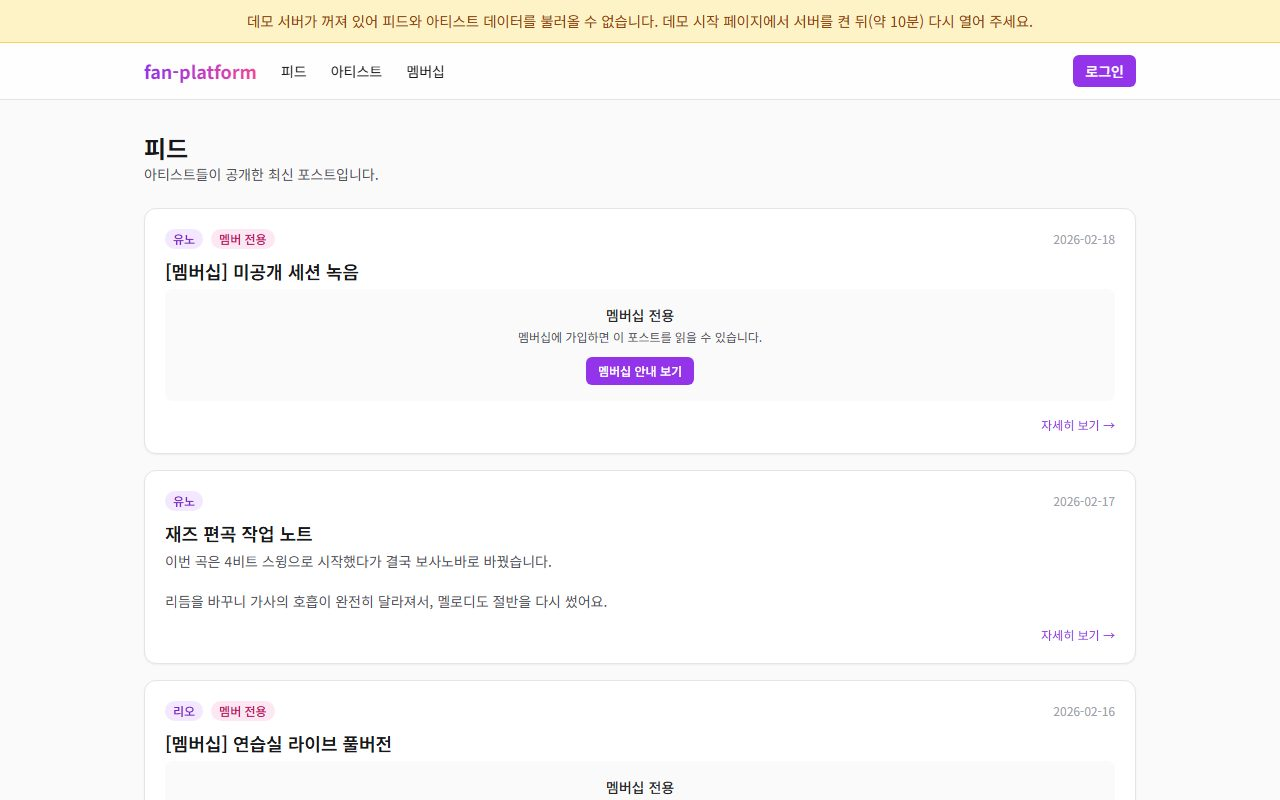
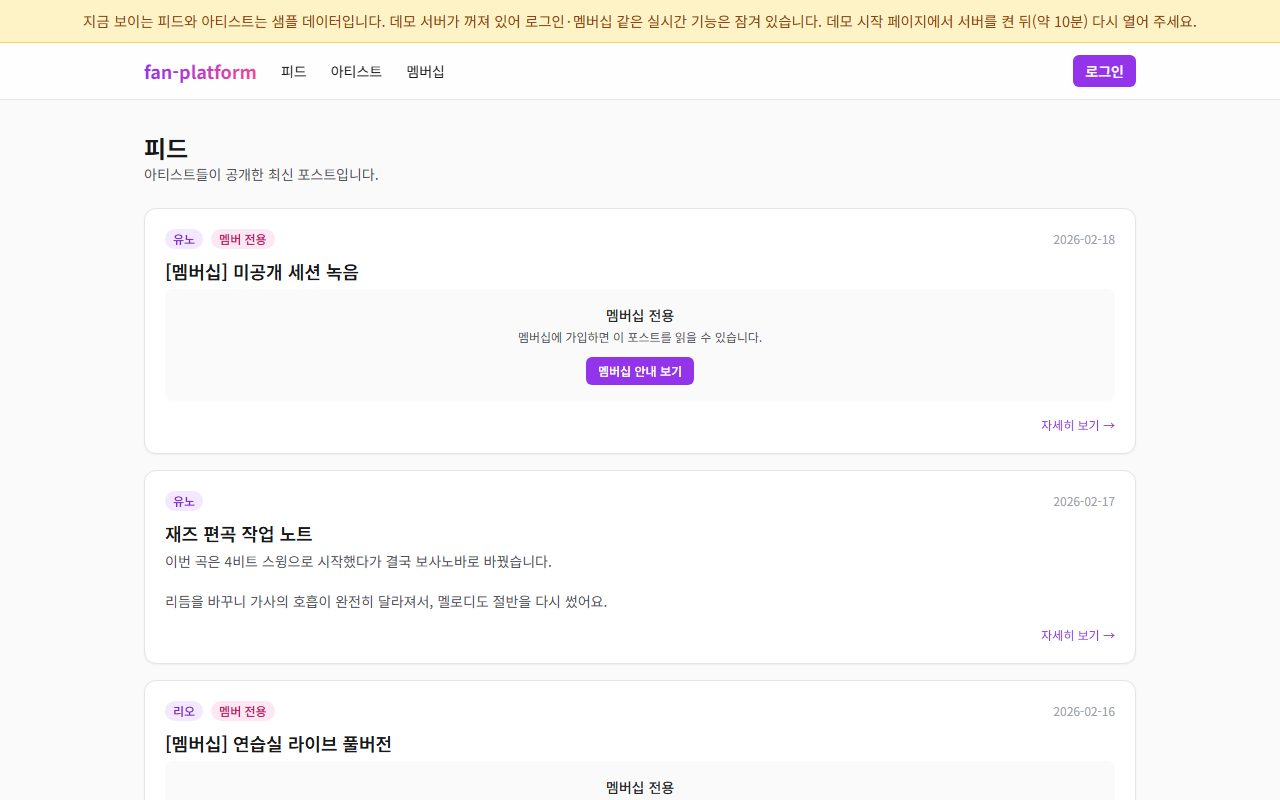
feat(demo): TASK-MONO-642 AC-3 — 새 문구가 배포된 뒤 캡처를 다시 찍는다 (in-progress → review)
문구·시험은 #3702 로 이미 머지됐다. 캡처는 라이브에서 찍으므로 그 배포 뒤에만
가능했고, 그래서 이 티켓이 in-progress 로 남아 있었다.

배포 확인
  store/fan 두 표면의 raw HTML 에서 새 문구를 폴링해 배포를 확인했고
  (🔵 그 전에 옛 문구가 raw HTML 에 있는지 먼저 재서 이 폴링이 유효한지 확인했다 —
   클라 렌더면 SSR HTML 로 판정이 안 된다),
  브라우저 렌더로 배너 전문을 다시 읽었다.

캡처 재생성
  node infra/demo/aws/site/capture-shots.mjs → 8/8, manifest 기록, 전부 200
  🔵 TASK-MONO-643 이 고친 스크립트를 실제로 썼다. 이 worktree 에 설치본이 없어
     --from 을 줬고, 스크립트가 해석된 경로를 출력했다.

🔵 다섯 장만 바뀌고 console 세 장은 바이트 동일하다
  바뀜   store-1-home · store-2-products · fan-1-feed · fan-2-artists · fan-3-membership
  안 바뀜 console-1-overview · console-2-ecommerce · console-3-wms
  🔴 이것이 범위가 맞았다는 증거다 — 콘솔을 안 건드렸으니 콘솔 캡처가 안 바뀌어야
     한다. 바뀌었다면 의도하지 않은 변경이 섞인 것이다.

눈으로 봤다
  store-2-products  새 배너 + 상품 8종이 그대로
  fan-2-artists     새 배너 + 아티스트 6명이 사진과 함께

용량 608 → 616 KB (+1.3%). 새 문구가 한 줄 길어진 만큼이고 형식·품질(JPEG q=82)은
TASK-MONO-639 가 정한 그대로다.

게이트
  전체 wrapper 정적 전량  rc=0 · 86 ok · FAIL 0 · 「정적 검증 PASS」 종료
  (z37) 통과 — 참조↔파일 양방향 · manifest 일치 · capture-shots.mjs 목록과 안 갈라짐

🔴 미측정: 새 캡처가 hubwang.com 카드에 실제로 뜨는지. 머지 → Vercel 배포 뒤에만
   볼 수 있다. TASK-MONO-639 때와 같은 축이고 그때는 8/8 이 md5 동일로 확인됐다.

Changed region(s): [[0.0625, 0.0, 0.9375, 0.0312]]

diff --git a/tasks/review/TASK-MONO-642-the-banner-says-it-cannot-load-what-it-is-drawing.md b/tasks/review/TASK-MONO-642-the-banner-says-it-cannot-load-what-it-is-drawing.md
@@ -8,7 +8,7 @@ TASK-MONO-642
 
 # Status
 
-in-progress
+review
 
 # Owner
 
@@ -101,43 +101,43 @@ projects/platform-console/apps/console-web/src/widgets/demo-notice/DemoBackendNo
 
 ## AC-0 — 착수 전 재측정
 
-- [ ] 세 앱의 배너 문구를 **다시 읽고** 위 표를 갱신한다. 그 사이 누가 고쳤으면 재현 조건이
+- [x] 세 앱의 배너 문구를 **다시 읽고** 위 표를 갱신한다. 그 사이 누가 고쳤으면 재현 조건이
       사라진다 — 그때는 «문구가 무엇인가» 가 아니라 **«화면이 그리는 것과 배너가 말하는
       것이 맞는가»** 로 판정하라.
-- [ ] 🔴 라이브에서 **배너와 데이터가 함께 있는지** 확인한다(배너가 뜨는데 데이터도 보인다는
+- [x] 🔴 라이브에서 **배너와 데이터가 함께 있는지** 확인한다(배너가 뜨는데 데이터도 보인다는
       것이 이 티켓의 재현 조건이다). 데모가 켜져 있으면 배너가 아예 안 뜨므로 재현이 안 된다.
-- [ ] 🔴 `TASK-MONO-643` 이 머지됐는지 확인한다. 안 됐으면 AC-3 은 못 한다 — **STOP 하고
+- [x] 🔴 `TASK-MONO-643` 이 머지됐는지 확인한다. 안 됐으면 AC-3 은 못 한다 — **STOP 하고
       643 부터 처리하라.**
 
 ## AC-1 — 배너가 화면과 어긋나지 않는다
 
-- [ ] 스토어·팬의 문구가 **지금 보이는 것**을 말한다. 방향: «불러올 수 없다» 가 아니라
+- [x] 스토어·팬의 문구가 **지금 보이는 것**을 말한다. 방향: «불러올 수 없다» 가 아니라
       «지금 보이는 것은 샘플이고, 실시간 기능은 서버를 켜야 한다».
-- [ ] 🔴 «실시간 기능이 잠겨 있다» 는 사실은 **남긴다.** 그것까지 지우면 방문자가 장바구니·
+- [x] 🔴 «실시간 기능이 잠겨 있다» 는 사실은 **남긴다.** 그것까지 지우면 방문자가 장바구니·
       로그인이 왜 안 되는지 모른다 — 배너를 부드럽게 만드는 것이 목적이 아니다.
-- [ ] 🔴 **콘솔 문구는 안 바꾼다**(정확하다). 세 앱을 통일하지 않는 이유를 적는다.
-- [ ] 론처 카드의 문구(`TASK-MONO-637` 이 넣은 「실시간 기능을 먼저 기동해야 열립니다」)와
+- [x] 🔴 **콘솔 문구는 안 바꾼다**(정확하다). 세 앱을 통일하지 않는 이유를 적는다.
+- [x] 론처 카드의 문구(`TASK-MONO-637` 이 넣은 「실시간 기능을 먼저 기동해야 열립니다」)와
       **같은 것을 말하는지** 대조한다. 두 화면이 다른 말을 하면 방문자가 어느 쪽을 믿을지 모른다.
 
 ## AC-2 — 형제 시험
 
-- [ ] 두 앱의 `DemoBackendNotice.test.tsx` 가 함께 바뀐다.
-- [ ] 🔴 그 시험이 **문구 리터럴을 고정**하고 있다. 새 문구로 갈아 끼우기만 하면 다음에 또
+- [x] 두 앱의 `DemoBackendNotice.test.tsx` 가 함께 바뀐다.
+- [x] 🔴 그 시험이 **문구 리터럴을 고정**하고 있다. 새 문구로 갈아 끼우기만 하면 다음에 또
       깨진다 — **성질로 바꿀지, 리터럴을 유지할지 판단하고 근거를 적어라.**
       🔵 이 경우는 리터럴이 정당할 수 있다(배너의 **문장 자체**가 계약이다). 판단하고 적으면 된다.
-- [ ] 콘솔 시험은 **안 건드린다**(그 문구가 안 바뀌므로).
-- [ ] 🔴 이 호스트의 측정 제약을 지켜라: 세 스위트를 동시에 돌리면 단독 527ms 짜리가 5초
+- [x] 콘솔 시험은 **안 건드린다**(그 문구가 안 바뀌므로).
+- [x] 🔴 이 호스트의 측정 제약을 지켜라: 세 스위트를 동시에 돌리면 단독 527ms 짜리가 5초
       타임아웃에 걸린다. **동시성을 제한해서** 판정을 얻어라(타임아웃 상향 금지).
       console 은 `--maxWorkers=2 --minWorkers=1` 을 **짝으로** 줘야 한다.
 
 ## AC-3 — 캡처 갱신
 
-- [ ] `TASK-MONO-639` 의 캡처 여덟 장 중 배너가 보이는 것들을 **다시 찍는다**
+- [x] `TASK-MONO-639` 의 캡처 여덟 장 중 배너가 보이는 것들을 **다시 찍는다**
       (`node infra/demo/aws/site/capture-shots.mjs`).
-- [ ] 🔵 `(z37)` 가 참조↔파일과 manifest 를 대조하므로, 재생성 후 그 칸이 초록인지 확인한다.
-- [ ] 다시 찍은 이미지를 **눈으로 본다** — 배너가 새 문구인지. 파일이 바뀌었다는 것과 화면이
+- [x] 🔵 `(z37)` 가 참조↔파일과 manifest 를 대조하므로, 재생성 후 그 칸이 초록인지 확인한다.
+- [x] 다시 찍은 이미지를 **눈으로 본다** — 배너가 새 문구인지. 파일이 바뀌었다는 것과 화면이
       바뀌었다는 것은 다른 축이다.
-- [ ] 🔴 재생성 뒤 **합계 용량**을 다시 재고 `TASK-MONO-639` 가 남긴 값(608KB)과 대조한다.
+- [x] 🔴 재생성 뒤 **합계 용량**을 다시 재고 `TASK-MONO-639` 가 남긴 값(608KB)과 대조한다.
       크게 늘었으면 형식·품질이 바뀐 것이다.
 
 ---
@@ -178,3 +178,98 @@ projects/platform-console/apps/console-web/src/widgets/demo-notice/DemoBackendNo
 
 분석=Opus 5 / 구현 권장=**Sonnet** (문구 둘 + 시험 둘 + 캡처 재생성. 다만 «무엇까지 남길
 것인가» 는 판단이므로 막히면 Opus).
+
+---
+
+# Verification — 구현 세션 (2026-09-08 UTC)
+
+## AC-0 — 착수 전 재측정
+
+| 축 | 값 |
+|---|---|
+| 세 앱 배너 문구 | 표 그대로(변동 없음) |
+| 🔴 `TASK-MONO-643` 머지 (AC-3 의 선행) | ✅ `d754903b9` |
+| 🔴 라이브 재현 조건 (배너 + 데이터 **동시**) | ✅ store 배너+상품 20 · fan 배너+피드 10 |
+
+🔵 **AC-0 이 예상 못 한 것을 하나 줬다**: `console` 은 `/demo/ecommerce` 에 **배너가 아예
+안 뜬다**(표 18행만 그린다). 티켓은 「콘솔 문구는 정확하다」고만 적었는데, 실은 그 페이지에서
+**렌더되지도 않는다.** 어느 쪽이든 결론은 같다 — 안 건드린다.
+
+## AC-1 — 배너가 화면과 어긋나지 않는다
+
+| 앱 | 새 문구 |
+|---|---|
+| store | 지금 보이는 상품은 **샘플 데이터**입니다. 데모 서버가 꺼져 있어 장바구니·로그인 같은 **실시간 기능은 잠겨 있습니다.** 데모 시작 페이지에서 … |
+| fan | 지금 보이는 피드와 아티스트는 **샘플 데이터**입니다. 데모 서버가 꺼져 있어 로그인·멤버십 같은 **실시간 기능은 잠겨 있습니다.** … |
+| console | **안 건드렸다** |
+
+- 🔴 «실시간 기능이 잠겼다» 는 사실을 **남겼다.** 지우면 방문자가 장바구니·로그인이 왜 안
+  되는지 모른다 — 배너를 부드럽게 만드는 것이 목적이 아니다.
+- 🔵 론처 카드(`TASK-MONO-637`)의 「실시간 기능을 먼저 기동해야 열립니다」와 **용어를
+  일치**시켰다. 두 화면이 다른 말을 하면 방문자가 어느 쪽을 믿을지 모른다.
+- 🔴 **콘솔을 안 바꾼 이유**: 그 문구는 정확하고(그쪽은 실제로 못 쓴다), 그 페이지에선
+  렌더되지도 않는다. 세 앱을 「통일」하면 **맞는 문장을 틀리게 만든다.**
+
+## AC-2 — 형제 시험 (판단과 근거)
+
+🔴 **기존 두 단언은 이 티켓의 결함을 못 잡았다.** `'데모 서버가 꺼져 있어'` 와 `'데모 시작'` 은
+**옛 문구에도 그대로** 있었다 — 결함이 있든 없든 통과한다.
+
+**판단: 리터럴 고정은 유지하고, 덮는 칸을 더한다.** 배너의 **문장 자체가 방문자와의 계약**
+이므로 리터럴은 정당하다. 다만 지금 고정된 조각이 이 티켓이 고치는 부분을 안 덮는다.
+
+| 칸 | 무엇 |
+|---|---|
+| (a) | 「샘플」이 있다 |
+| **(b)** | 🔴 「불러올 수 없」이 **없다** — **bite** |
+| (c) | 「실시간 기능」이 있다 (잠긴 사실을 안 지웠는가) |
+
+🔵 (a)(c) 만으로는 옛 문구를 **덧붙여도** 통과한다.
+
+**실측**
+- fan vitest 단독(`--maxWorkers=2 --minWorkers=1`): **7 passed**
+- 🔴 **bite**: 옛 문구를 되살리니 **정확히 1칸**만 실패(7 중 1), 나머지 6은 통과
+- 🔴 store vitest 는 이 호스트에서 **기동 불가**(Node 24.14 + vitest 4,
+  `ERR_PACKAGE_IMPORT_NOT_DEFINED` — 재측정함)
+- 🔵 **CI 가 두 칸을 실제로 돌렸는지 확인했다**: 베이스라인 `it(` 수 store **4** · fan **6**
+  → CI 로그 **5 tests** · **7 tests**. 각각 `+1`. 🔴 잡이 초록인 것과 내 단언이 실행된 것은
+  다른 축이라 베이스라인과 대조했다.
+- 콘솔 시험은 **안 건드렸다**(그 문구가 안 바뀌므로).
+
+## AC-3 — 캡처 갱신
+
+`node infra/demo/aws/site/capture-shots.mjs` — **8/8 성공**, `manifest` 기록, 전부 `status 200`.
+
+🔵 **643 이 고친 스크립트를 실제로 썼다.** 이 worktree 에는 설치본이 없어 `--from` 을 줬고,
+스크립트가 해석된 경로를 출력했다(`[capture] Playwright: …`).
+
+**🔵 다섯 장만 바뀌었고 console 세 장은 바이트 동일하다.**
+
+| 바뀜 | 안 바뀜 |
+|---|---|
+| `store-1-home` · `store-2-products` · `fan-1-feed` · `fan-2-artists` · `fan-3-membership` | `console-1-overview` · `console-2-ecommerce` · `console-3-wms` |
+
+🔴 이것이 **범위가 맞았다는 증거**다 — 콘솔을 안 건드렸으니 콘솔 캡처가 안 바뀌어야 한다.
+바뀌었다면 의도하지 않은 변경이 섞인 것이다.
+
+**눈으로 봤다**(이미지를 열어서):
+- `store-2-products` — 새 배너가 그려져 있고 상품 8종이 그대로 보인다
+- `fan-2-artists` — 새 배너 + 아티스트 **6명이 사진과 함께**
+
+**용량**: 608 KB → **616 KB** (+8 KB, +1.3%). 새 문구가 한 줄 길어진 만큼이고,
+`TASK-MONO-639` 가 정한 형식·품질(JPEG q=82)은 그대로다.
+
+## 실행한 게이트
+
+| 게이트 | 결과 |
+|---|---|
+| fan vitest (단독) | ✅ 7 passed |
+| fan vitest bite (옛 문구 복원) | ✅ 1 failed / 6 passed — **정확히 새 칸만** |
+| CI `Frontend unit tests` | ✅ store 5 tests · fan 7 tests (베이스라인 4·6 대비 각 +1) |
+| CI 전체 (PR #3702) | ✅ 60 checks · failing 0 |
+| `capture-shots.mjs` | ✅ 8/8 · manifest 기록 |
+| 전체 wrapper (정적 전량) | ✅ rc=0 · **86 ok** · FAIL 0 · `정적 검증 PASS` 종료 · `(z37)` 통과 |
+
+🔴 **미측정**: 새 캡처가 `hubwang.com` 카드에 실제로 뜨는지. 이 PR 이 머지되고 Vercel 이
+배포한 뒤에만 볼 수 있다. `TASK-MONO-639` 때와 같은 축이고, 그때는 8/8 이 **md5 동일**로
+확인됐다.

diff --git a/tasks/INDEX.md b/tasks/INDEX.md
@@ -198,10 +198,11 @@ lifecycle itself — see `done/TASK-MONO-001-introduce-root-task-lifecycle.md`.
 - `TASK-MONO-647-the-bundle-boot-is-half-deployed-and-the-button-lies-with-a-200.md` — 🔴🔴 **묶음 기동이 절반만 배포됐다 — 제어 API 는 알고 인스턴스는 모른다** (READY, 2026-09-08 UTC 실측). `terraform apply` 로 라우트 3개가 오늘 배포되면서 **어제까지 잠겨 있던 버튼이 풀렸고**, 그래서 이 결함은 **오늘 생겼다**. 누르면 람다는 선택을 SSM 에 저장하고 인스턴스를 켜며 **200 을 내는데**, 인스턴스는 `demo-boot.sh full` 을 돌려 **8도메인 전체가 뜬다** — 팬만 골랐는데 예산은 전체 스택만큼. 🔴 **에러가 아니라 «다른 동작»** 이라 로그에도 안 보인다. 실측: AMI `ami-029c40fb18c63816b` 의 `RepoCommit=3bc182ecd` 이후 **32커밋**, 그중 인스턴스 실행 파일을 바꾼 것이 둘(`9f0fcd2d6`=ADR-070/071 본체 · `4d1a498ef`=638 seed-fan). 구워진 파일 직접 확인 — `demo-boot.sh` 의 `selection` **0회**(main 은 8회) · `projects.sh` 의 `BUNDLES` **0회** · `demo-stack.service` 가 `DEMO_PROFILE=full`(main 은 `selection`). 🔴 **하드코딩으로 끄지 마라** — 세대를 읽어서 판단해야 재굽기 순간 저절로 풀린다(Failure Scenario 1). 🔴 `/start`(전체)는 막지 않는다 · 거절은 `bundle_start` 에서 · **`TASK-MONO-644` 와 다른 결함이니 섞지 마라**. `TASK-MONO-628` 이 이름 붙인 「론처는 머지로, `demo-up.sh` 는 재굽기로」 계약이 **물린 첫 사례**이고, 여기에 축을 하나 더한다 — **제어 API(terraform)가 세 번째 배포 경로다**. 분석=Opus 5 / 구현 권장=Opus.
 ## in-progress
 
-- `TASK-MONO-642-the-banner-says-it-cannot-load-what-it-is-drawing.md` — **배너가 «데이터를 불러올 수 없습니다» 라고 하면서 그 데이터를 그리고 있다** (READY, 2026-09-08 UTC 실측). `TASK-MONO-639` 가 캡처를 **눈으로 확인하다** 발견 — 그래서 이 문구는 이제 포트폴리오 첫 화면의 캐러셀에 박혀 있다(라이브 확인: `hubwang.com` 카드 8장 전부 `naturalWidth=1280`). 🔵 **거짓은 아니다** — 백엔드는 정말 꺼져 있고 화면에도 「샘플 데이터」라 적혀 있다. 문제는 **뜻이 «에러» 로 읽힌다**는 것. 🔴 **세 앱을 통일하지 마라**: `console-web` 문구(「로그인과 운영 데이터를 사용할 수 없습니다」)는 **정확하므로 안 건드린다** — 통일하면 맞는 문장을 틀리게 만든다(Failure Scenario 1). 스토어·팬만 `ADR-MONO-070` 이전 표현이 남은 드리프트다. 🔴 **선행 = `TASK-MONO-643`** (AC-3 의 캡처 재생성 명령이 지금 `rc=1` 로 죽는다). 분석=Opus 5 / 구현 권장=Sonnet. 🔵 **착수 2026-09-08 UTC** — `ready` → `in-progress`. AC-0 실측: 세 앱 문구 그대로 · `TASK-MONO-643` 머지 확인 · 라이브에서 **재현 조건 성립**(store 배너+상품 20 · fan 배너+피드 10). 🔵 콘솔은 `/demo/ecommerce` 에 **배너가 아예 안 뜬다**(18행만) — 더더욱 안 건드린다.
 
 
 ## review
+
+- `TASK-MONO-642-the-banner-says-it-cannot-load-what-it-is-drawing.md` — **배너가 «데이터를 불러올 수 없습니다» 라고 하면서 그 데이터를 그리고 있다** (READY, 2026-09-08 UTC 실측). `TASK-MONO-639` 가 캡처를 **눈으로 확인하다** 발견 — 그래서 이 문구는 이제 포트폴리오 첫 화면의 캐러셀에 박혀 있다(라이브 확인: `hubwang.com` 카드 8장 전부 `naturalWidth=1280`). 🔵 **거짓은 아니다** — 백엔드는 정말 꺼져 있고 화면에도 「샘플 데이터」라 적혀 있다. 문제는 **뜻이 «에러» 로 읽힌다**는 것. 🔴 **세 앱을 통일하지 마라**: `console-web` 문구(「로그인과 운영 데이터를 사용할 수 없습니다」)는 **정확하므로 안 건드린다** — 통일하면 맞는 문장을 틀리게 만든다(Failure Scenario 1). 스토어·팬만 `ADR-MONO-070` 이전 표현이 남은 드리프트다. 🔴 **선행 = `TASK-MONO-643`** (AC-3 의 캡처 재생성 명령이 지금 `rc=1` 로 죽는다). 분석=Opus 5 / 구현 권장=Sonnet. 🔵 **구현 완료 2026-09-08 UTC → `review`.** 문구를 「지금 보이는 …은 **샘플 데이터**입니다 … **실시간 기능은 잠겨 있습니다**」로 바꿨다 — 🔴 «잠겼다» 는 사실은 **남겼다**(지우면 방문자가 장바구니·로그인이 왜 안 되는지 모른다). 론처 카드(`TASK-MONO-637`)와 **용어를 일치**시켰다. 🔴 **콘솔은 안 건드렸다** — 정확할 뿐 아니라 `/demo/*` 에선 **렌더되지도 않는다**(AC-0 이 준 덤). 🔴🔴 **기존 시험이 이 결함을 못 잡고 있었다** — 「데모 서버가 꺼져 있어」·「데모 시작」은 **옛 문구에도 그대로** 있어 결함 유무와 무관하게 통과했다. ⇒ 리터럴은 유지하고(문장이 계약이다) **「불러올 수 없」이 없다**를 무는 칸을 더했다. bite: 옛 문구 복원 시 **정확히 1칸만** 실패(7 중 1). 🔵 CI 가 내 칸을 실제로 돌렸는지 **베이스라인과 대조**했다(store 4→5 · fan 6→7) — 로컬은 store vitest 기동 불가(Node 24 + vitest 4). 캡처 8/8 재생성, 🔵 **5장만 바뀌고 console 3장은 바이트 동일**(범위가 맞았다는 증거) · 608→616KB · 눈으로 확인. wrapper 86 ok · `(z37)` 통과.
 
 - `TASK-MONO-643-the-capture-script-cannot-find-playwright-where-it-looks.md` — **캡처 스크립트가 문서에 적힌 대로 실행하면 죽고, 가드는 그 파일이 «있다» 만 물었다** (READY, 2026-09-08 UTC 실측). `node infra/demo/aws/site/capture-shots.mjs` → **rc=1** — 기본 후보 경로 셋이 **프로젝트** 층을 보는데 설치본은 **앱** 층에 있어 셋 다 빗나간다. 🔴 `TASK-MONO-639` 는 `--from` 으로 우회해 캡처에 성공했으므로 **문서가 적어 둔 실행은 한 번도 안 돌아 봤다.** 🔴🔴 무게는 경로 세 줄이 아니라 **게이트**에 있다: `(z37)` 이 «다시 만들 방법이 사라졌습니다» 라고 말하면서 술어는 `[ -f ]` 뿐이라, 안 도는 스크립트를 **CI 초록으로 통과시켰다**. 🔴 네 번째 경로 하드코딩으로 닫지 마라(지금 결함의 모양이 그것이다) · 게이트는 **네트워크에 안 붙는다** · 설치 없는 clean CI 에서 **거짓 빨강 금지**(「설치 안 됨」≠「고장」). 같은 부류 선례 = `TASK-MONO-640`. 분석=Opus 5 / 구현 권장=Opus. 🔵 **구현 완료 2026-09-08 UTC → `review`.** 경로 하드코딩을 **탐색**으로 바꾸고(근거: 이 파일은 워크스페이스 밖이라 Node 기본 해석이 `projects/**/node_modules` 에 안 닿는다), `--dry-run` 이 의존 해석 **뒤에** 오도록 순서를 뒤집고, **「미설치(rc=3)」와 「고장(rc=1)」을 종료코드로 갈랐다**. 가드 `(z38)` 신규 — 지상 진실을 **독립으로** 계산해 대조하고, 종료코드 + **「해석했다는 증거」**를 둘 다 요구한다(첫 판은 종료코드만 봐서 **옛 스크립트의 rc=0 을 초록으로 통과시켰다**). bite 4칸 전부 실행으로. 베이스라인 **85 → 86 ok**(연달아 측정, 둘 다 `정적 검증 PASS` 종료). 🔴🔴 이 티켓을 만들며 같은 부류를 **세 번 더** 밟았고 셋 다 다른 방법으로 잡혔다 — ①bite ②로그 grep ③**끝 문구 세기**(③은 `bash -n` 통과 + `rc=0` + ok 증가로 **모든 표면 지표가 초록**이었다).
 
